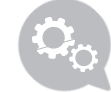
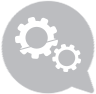
Aggiunta nuove icone

diff --git a/WebContent/home.html b/WebContent/home.html
@@ -9,6 +9,7 @@
 	<script src="js/menu.js"></script>
 <!-- 	<script src="https://raw.github.com/Zikes/circle-menu/master/jQuery.circleMenu.js"></script> -->
 	<script type="text/javascript">
+		var isOnTop = false;
 		$(document).ready(function() {
 			//Caricamento del munu circolare
 			$('ul').circleMenu({
@@ -19,7 +20,10 @@
 			});
 			
 			$(window).scroll(function () {
-				$("#goTop").css('visibility', 'visible');
+				if(!isOnTop)
+					$("#goTop").css('visibility', 'visible');
+				else
+					$("#goTop").css('visibility', 'hidden');
 			});
 		});
 	
@@ -101,7 +105,7 @@
 				$('div#pop-up06').hide();
 			});
 		});
-	</script>
+ 	</script> 
 	<script type="text/javascript">
 		function openMenu() {
 			$('ul').circleMenu('open');
@@ -111,48 +115,57 @@
             $('html, body').animate({
                 scrollTop: 800
             }, 1500);
+            isOnTop=false;
 		}
 		
 		function scrolling04(){
             $('html, body').animate({
                 scrollTop: 1200
             }, 1500);
+            isOnTop=false;
 		}
 		
 		function scrolling02(){
             $('html, body').animate({
                 scrollTop: 1700
             }, 1500);
+            isOnTop=false;
 		}
 		
 		function scrolling03(){
             $('html, body').animate({
                 scrollTop: 2700
             }, 1500);
+            isOnTop=false;
 		}
 		
 		function scrolling08(){
             $('html, body').animate({
                 scrollTop: 3200
             }, 1500);
+            isOnTop=false;
 		}
 		
 		function scrolling01(){
             $('html, body').animate({
                 scrollTop: 3200
             }, 1500);
+            isOnTop=false;
 		}
 		
 		function scrolling06(){
             $('html, body').animate({
                 scrollTop: 3800
             }, 1500);
+            isOnTop=false;
 		}
 		
 		function goOnTop(){
 			$('html, body').animate({
                 scrollTop: -3500
             }, 1500);
+			isOnTop = true;
+			openMenu();
 		}
 	</script>
 	<title>HWT</title>
@@ -310,7 +323,7 @@
 		</div>
 		<div id="pagMapping">
 			<div class="generalContent">
-				MAPPING
+				<img alt="Mapping" src="img/titles/Mapping.png">
 				<div id="contentPagMapping">
 					Il Visual Thinking rappresenta la pratica di usare le immagini per comunicare in maniera chiara e intuitiva.<br>
 					Schizzi, disegni o note su post-it, per esempio, possono essere utilizzati per costruire e discutere un'idea o per risolvere problemi.<br>
@@ -320,12 +333,12 @@
 				</div>
 			</div>
 		</div>
-			<div id="goTop" style="margin-top: 500px; position: fixed; visibility: hidden; margin-left: 90%">
+			<div id="goTop" style="margin-top: 700px; position: fixed; visibility: hidden; margin-left: 92%">
 				<a href="#" onclick="goOnTop();"><img title="Go on Top" alt="Go On Top" src="img/Icone/goTop_small.png"></a>
 			</div>
 		<div id="pagGaming">
 			<div class="generalContent">
-				GAMING
+				<img alt="Gaming" src="img/titles/Gaminfication.png">
 				<div id="contentPagGaming">
 					Il nostro metodo di lavoro si sviluppa sulla convizione che quando le persone vengono coinvolte "giocando" diventa pi&ugrave facile per loro analizzare situazioni o individuare soluzioni.
 					Per questo i nostri strumenti  richiamano il gioco e il divertimento, e si basano su un approccio collaborativo e dinamico.
@@ -335,7 +348,9 @@
 		</div>
 		<div id="pagStrategia">
 			<div class="generalContent">
-				<div style="text-align: center;">STRATEGIA</div>
+				<div style="text-align: center;">
+					<img alt="Strategia" src="img/titles/Strategia.png">
+				</div>
 				<div id="contentPagStrategia">
 					Sia che un'organizzazione voglia esplorare un nuovo business, sia che voglia far crescerne uno gi&agrave esistente, la rappresentazione completa della strategia di business &egrave fondamentale.<br>
 					Tenuto conto di questo obiettivo, il punto di partenza &egrave per noi l'esplorazione del modello organizzativo attuale, ed in particolare l'analisi dell'identit&agrave delll'organizzazione,<br>
@@ -370,7 +385,7 @@
 		</div>
 		<div id="pagUserExperience">
 			<div class="generalContent">
-				USER-EXPERIENCE
+				<img alt="User-Experience" src="img/titles/UX.png">
 				<div id="contentPagUserExperience">
 					L'UX &egrave per noi un driver di valore e pertanto ha un ruolo centrale in tutte le fasi di contatto con il cliente. Utilizziamo template visuali, <br>
 					i"Personas", per descrivere i nostri clienti, cercando di coglierne a fondo le proccupazioni, le ambizioni, i comportamenti e la loro esperienza (CX= Customer Experience).<br>
@@ -384,7 +399,9 @@
 		<div id="pagKnowStart">
 			<div class="generalContent">
 				<div id="pagKnowHow">
-					<div style="margin-left: 34%">KNOW-HOW</div>
+					<div style="margin-left: 34%">
+						<img alt="Know-How" src="img/titles/Knowhow.png">
+					</div>
 					<div id="contentPagKnowHow">
 						<div>
 						Il valore di un'organizzazione non si misura esclusivamente dalle risorse tangibili, ma risiede soprattutto nella conoscenza,<br>
@@ -396,7 +413,9 @@
 					</div>
 				</div>
 				<div id="pagStartUp">
-					<div style="margin-left: 10%">START-UP</div>
+					<div style="margin-left: 10%">
+						<img alt="Start-Up" src="img/titles/Startup.png">
+					</div>
 					<div id="contentPagStartUp">
 						<div>
 						La Start-up nasce da un'idea, ma affinch&egrave un'idea possa essere  trasformata in business ogni suo elemento deve essere descritto e analizzato in chiave strategica.<br> 
@@ -410,7 +429,7 @@
 		</div>
 		<div id="pagBusinessModel">
 			<div class="generalContent">
-				BUSINESS<br>MODEL
+				<img alt="Business-Model" src="img/titles/Business-model.png">
 				<div id="contentPagBusinessModel">
 					Il Business Model racconta il funzionamento di un'organizzazione. Convinti che ogni persona possa apportare valore all'organizzazione secondo un<br>
 					approccio Kaizen, che incoraggia un percorso di miglioramento continuo basato sul rinnovamento a piccoli passi giorno per giorno, crediamo che la<br>
@@ -428,6 +447,32 @@
 					o risorse acquisitie all'esterno (Key Partners)
 				</div>
 			</div>
+		</div>
+		<div id="pagContatti">
+<!-- 				<img alt="Contatti" src="img/footer/Map.jpg"> -->
+				<div id="contentContatti" style="padding: 8%;">
+					<div id="blueCanvas" >
+						HWT &egrave una start-up fondata nel 2013 da un team di giovani legati dal-<br>
+						la convinzione che la vera sfida per le imprese risieda nella ricerca e<br>
+						l'esplorazione del proprio valore.<br><br>
+						
+						HWT sta per Hike + Worth ovvero "Esplorazione del valore" come<br>
+						strumento per "illuminare" il business e "scalare" il successo.<br>
+						
+						Con strumenti semplici, intuitivi, agili e innovativi aiutiamo le organiz-<br>
+						zazioni che vogliono innovarsi nella comprensione e nello sviluppo<br>
+						del proprio business fornendo un kit di conoscenze strategiche e ma-<br>
+						nageriali con un approccio non convenzionale basato sul visual thin-<br>
+						king, che permette di ottenere benefici tangibili e inaspettati.<br><br>
+						
+						Il nostro metodo si fonda sulla rappresentazione grafica, che consi-<br>
+						deriamo il modo pi&ugrave semplice e creativo per fissare concetti o rap-<br>
+						presentare problemi e idee; per questo utilizziamo strumenti derivati<br>
+						dal pensiero visuale, tra i quali il Business Model Canvas, ideato da<br>
+						Alexander Oserwalder e diffuso attraverso il libro di cui egli stesso &egrave<br>
+						autore "Business Model Generation"
+					</div>
+				</div>
 		</div>
 	</div>
 </body>

diff --git a/WebContent/js/menu.js b/WebContent/js/menu.js
@@ -162,45 +162,46 @@
         self._state = 'opening';
         return self;
     };
-    CircleMenu.prototype.close = function(immediate){
-        var self = this,
-            $self = this.element,
-            do_animation = function do_animation(){
-            var start = 0,
-                set;
-
-            self.submenus.circleMenu('close');
-            self.clearTimeouts();
-            if(self._state === 'closed') return self;
-            if(self.options.step_in >= 0){
-                set = self.menu_items;
-            }else{
-                set = $(self.menu_items.get().reverse());
-            }
-            set.each(function(index){
-                var $item = $(this);
-
-                self._timeouts.push(setTimeout(function(){
-                    $item.css({top:0,left:0});
-                    vendorPrefixes($item,'transform','scale(.5)');
-                }, start + Math.abs(self.options.step_in) * index));
-            });
-            self._timeouts.push(setTimeout(function(){
-                if(self._state === 'closing') self.trigger('close');
-                self._state = 'closed';
-            },start+Math.abs(self.options.step_in) * set.length));
-            $self.removeClass(pluginName+'-open');
-            $self.addClass(pluginName+'-closed');
-            self._state = 'closing';
-            return self;
-        };
-        if(immediate){
-            do_animation();
-        }else{
-            self._timeouts.push(setTimeout(do_animation,self.options.delay));
-        }
-        return this;
-    };
+//    CircleMenu.prototype.close = function(immediate){
+//    	alert("Chiusura");
+//        var self = this,
+//            $self = this.element,
+//            do_animation = function do_animation(){
+//            var start = 0,
+//                set;
+//
+//            self.submenus.circleMenu('close');
+//            self.clearTimeouts();
+//            if(self._state === 'closed') return self;
+//            if(self.options.step_in >= 0){
+//                set = self.menu_items;
+//            }else{
+//                set = $(self.menu_items.get().reverse());
+//            }
+//            set.each(function(index){
+//                var $item = $(this);
+//
+//                self._timeouts.push(setTimeout(function(){
+//                    $item.css({top:0,left:0});
+//                    vendorPrefixes($item,'transform','scale(.5)');
+//                }, start + Math.abs(self.options.step_in) * index));
+//            });
+//            self._timeouts.push(setTimeout(function(){
+//                if(self._state === 'closing') self.trigger('close');
+//                self._state = 'closed';
+//            },start+Math.abs(self.options.step_in) * set.length));
+//            $self.removeClass(pluginName+'-open');
+//            $self.addClass(pluginName+'-closed');
+//            self._state = 'closing';
+//            return self;
+//        };
+//        if(immediate){
+//            do_animation();
+//        }else{
+//            self._timeouts.push(setTimeout(do_animation,self.options.delay));
+//        }
+//        return this;
+//    };
     CircleMenu.prototype.select = function(index){
         var self = this,
             selected, set_other;

diff --git a/WebContent/css/pagesStyle.css b/WebContent/css/pagesStyle.css
@@ -7,7 +7,7 @@
 #pagMapping {
 	width: 100%;
 	float: left;
-	margin-top: 1000px;
+	margin-top: 800px;
 	font-family: helvetica;
 	font-size: 50px;
 	font-weight: bolder;
@@ -179,4 +179,27 @@
 	color: #858688;
 	line-height: 28px;
 	text-align: left;
+}
+
+#pagContatti {
+	width: 100%;
+	float: left;
+/* 	margin-top: -10%; */
+	background-color: white;
+	background-image: url("../img/footer/Map.jpg");
+/* 	font-family: helvetica; */
+/* 	font-size: 50px; */
+/* 	font-weight: bolder; */
+	/* 	margin-left: 15%; */
+/* 	color: #ed7909; */
+}
+
+#blueCanvas{
+	float: left; 
+	background-image: url('../img/footer/Box01.jpg'); 
+	padding: 3%;
+	font-family: helvetica;
+	line-height: 20px;
+	font-size:small;
+	color: white;
 }

diff --git a/WebContent/css/style.css b/WebContent/css/style.css
@@ -11,7 +11,7 @@ body {
 }
 
 #containerHeader {
-	height: 1000px;
+	height: 830px;
 	width: 100%;
 	background-image: url('../img/Background.jpg');
 	position: absolute;
@@ -381,7 +381,7 @@ div#bContent {
 #infoDitta{
 	display: block; 
 	text-align: center; 
-	margin-top: 950px; 
+	margin-top: 800px; 
 	margin-left: 33%;
 	position: absolute;
 	font-family: helvetica;
